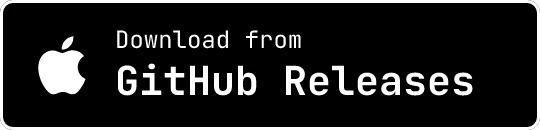
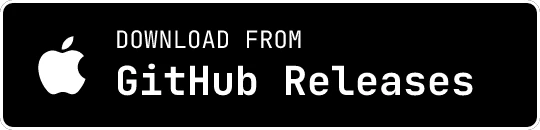
docs: update README features section and remove 'Why' section for clarity style: change badge text to uppercase for consistency build: regenerate badge images for app store, macOS, and Ubuntu

Changed region(s): [[0.237, 0.2154, 0.563, 0.3692]]

diff --git a/README.md b/README.md
@@ -16,25 +16,17 @@
 
 <p align="center">
   <a href="#features">Features</a> <span>•</span>
-  <a href="#why">Why</a> <span>•</span>
   <a href="#comparison">Comparison</a> <span>•</span>
   <a href="#installation">Installation</a>
 </p>
-
-
 
 ## Features
 
 * **Cross-Platform** - macOS and Linux (with optional NVIDIA GPU support).
 * **Lightweight** - Written in Rust. < 0.1% CPU, ~15MB RAM (measured on Apple M1).
 * **GPU Monitoring** - Apple Silicon residency via IOReport. NVIDIA utilization via NVML.
-* **Theme Aware** - Auto-detects light/dark mode.
 * **Configurable** - Toggle CPU, GPU, Memory, or Network stats via the right-click menu (GPU shown when hardware is available).
 * **Private** - 100% local. No analytics, network requests, or telemetry.
-
-## Why?
-
-I wanted <a href="https://github.com/0ry0n/Resource_Monitor" target="_blank" rel="noopener noreferrer"><strong>GNOME Resource Monitor</strong></a>'s simplicity on macOS. Paid apps charge $15+ for basic stats. Free alternatives lack GPU support. This uses platform-native GPU APIs (IOReport on macOS, NVML on Linux).
 
 ### How it works
 
@@ -42,7 +34,6 @@ I wanted <a href="https://github.com/0ry0n/Resource_Monitor" target="_blank" rel
 | :--- | :--- | :--- |
 | **CPU/Memory/Network** | `sysinfo` crate | `sysinfo` crate |
 | **GPU Metrics** | IOReport FFI (private APIs) | NVML via `nvml-wrapper` |
-| **Theme Detection** | Template icon (native macOS adaptation) | gsettings |
 
 On macOS, it calculates **active residency** instead of just "utilization" - giving true insight into GPU workload. Runs without `sudo` and looks like a system component.
 
